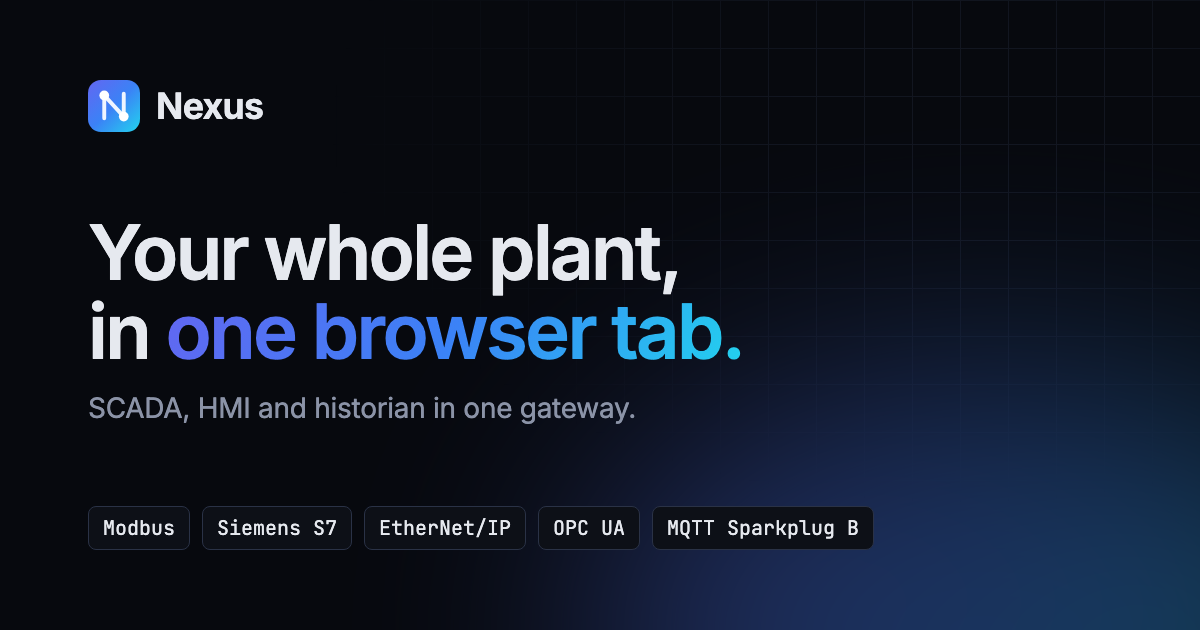
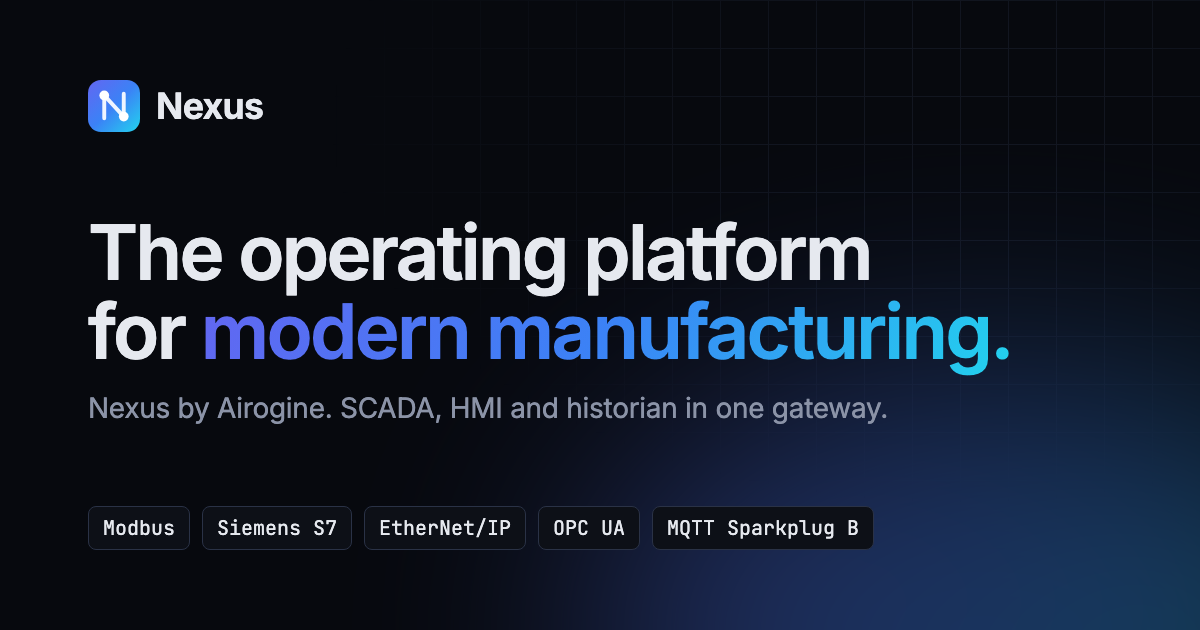
brand: Airogine engineers the future of industrial operations, and Nexus is the operating platform for modern manufacturing - in the home page title and hero, the Nexus menu, the footer, the share card and the structured data

Changed region(s): [[0.0617, 0.3317, 0.8633, 0.6032], [0.0617, 0.6333, 0.74, 0.6635]]

diff --git a/src/config.ts b/src/config.ts
@@ -7,6 +7,11 @@ export const site = {
   company: 'Airogine',
   product: 'Nexus',
 
+  // Brand positioning: the company's line and the product's. Used in the footer,
+  // the Nexus menu, the home page and the structured data; keep them word for word.
+  companyTagline: 'Engineering the future of industrial operations.',
+  productTagline: 'The operating platform for modern manufacturing.',
+
   // The privacy policy and terms of use. OPEN: the contact address for privacy
   // questions and requests (until it is set, both pages say it is coming), and
   // the US state Airogine is organized in (named as the governing law once set).

diff --git a/scripts/og-default.html b/scripts/og-default.html
@@ -37,8 +37,8 @@
     Nexus
   </div>
   <div class="main">
-    <h1>Your whole plant,<br>in <span>one browser tab.</span></h1>
-    <p>SCADA, HMI and historian in one gateway.</p>
+    <h1>The operating platform<br>for <span>modern manufacturing.</span></h1>
+    <p>Nexus by Airogine. SCADA, HMI and historian in one gateway.</p>
   </div>
   <div class="chips"><span>Modbus</span><span>Siemens S7</span><span>EtherNet/IP</span><span>OPC UA</span><span>MQTT Sparkplug B</span></div>
 </body>

diff --git a/src/styles/global.css b/src/styles/global.css
@@ -732,6 +732,12 @@ kbd,
   font-size: 0.9375rem;
 }
 
+.footer-brand .footer-tagline {
+  margin-bottom: -8px;
+  color: var(--text);
+  font-weight: 600;
+}
+
 .site-footer h2 {
   margin-bottom: 12px;
   font-size: 0.8125rem;

diff --git a/README.md b/README.md
@@ -139,7 +139,10 @@ the domain, which is in `astro.config.mjs`.
 - **Security overview PDF**: the download button on `/security/` appears once
   `securityOverviewPdf` is set.
 - **Company and product**: `company` (Airogine) is used in the footer copyright line, `product` (Nexus)
-  names the product. The header and footer show the Airogine wordmark (`src/components/Wordmark.astro`,
+  names the product. The brand positioning is `companyTagline` ("Engineering the future of industrial
+  operations.", in the footer and the Organization's structured data) and `productTagline` ("The
+  operating platform for modern manufacturing.", in the home page title and hero, the Nexus menu, the
+  share card and the SoftwareApplication's structured data). The header and footer show the Airogine wordmark (`src/components/Wordmark.astro`,
   type only until there is a logo); the Nexus mark (`Logo.astro`) stays with the product, in the
   Nexus menu and the favicon.
 - **Privacy policy and terms of use**: written from what the site actually does (no cookies,
